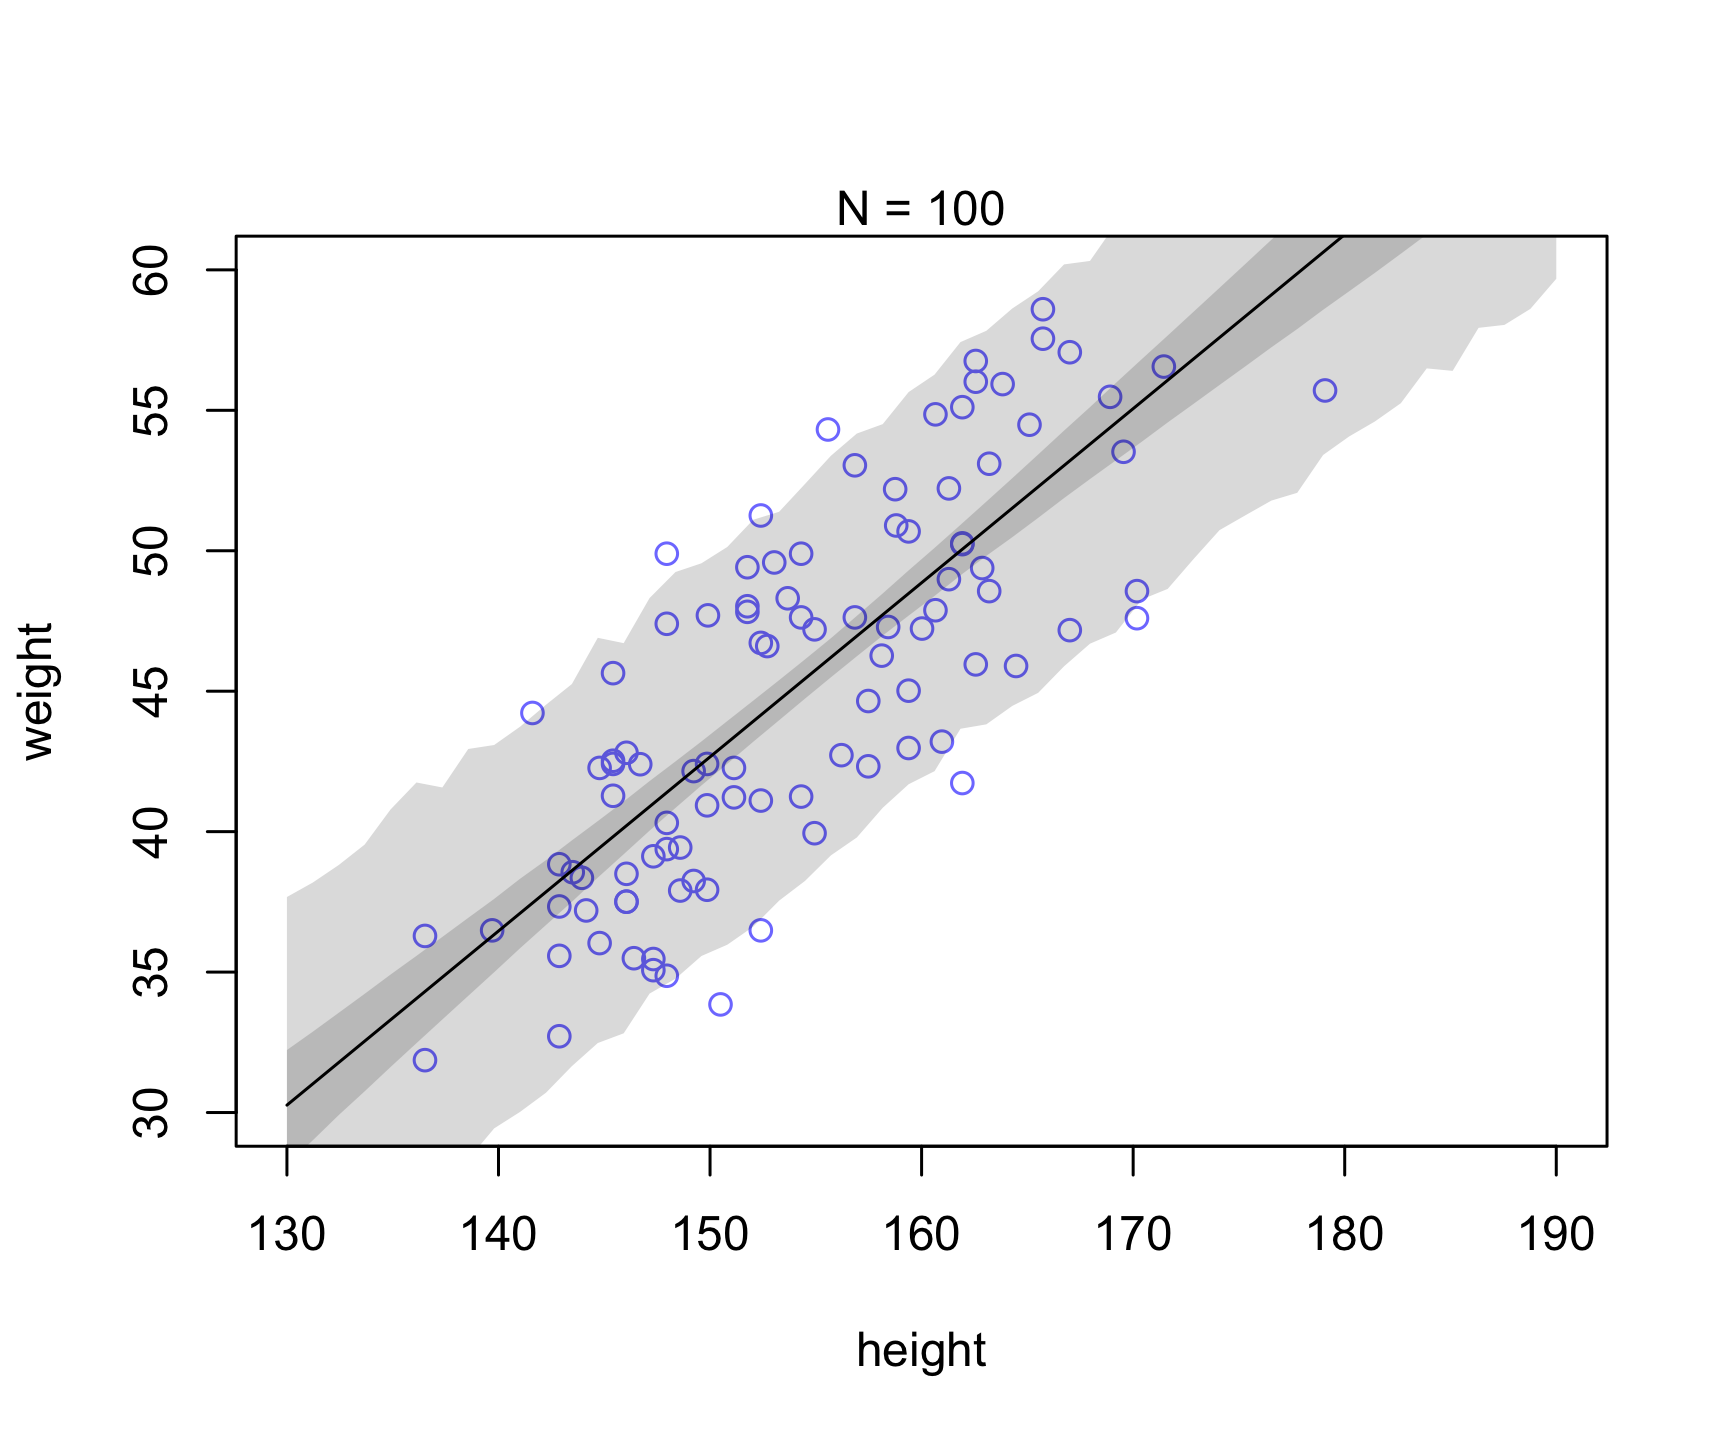
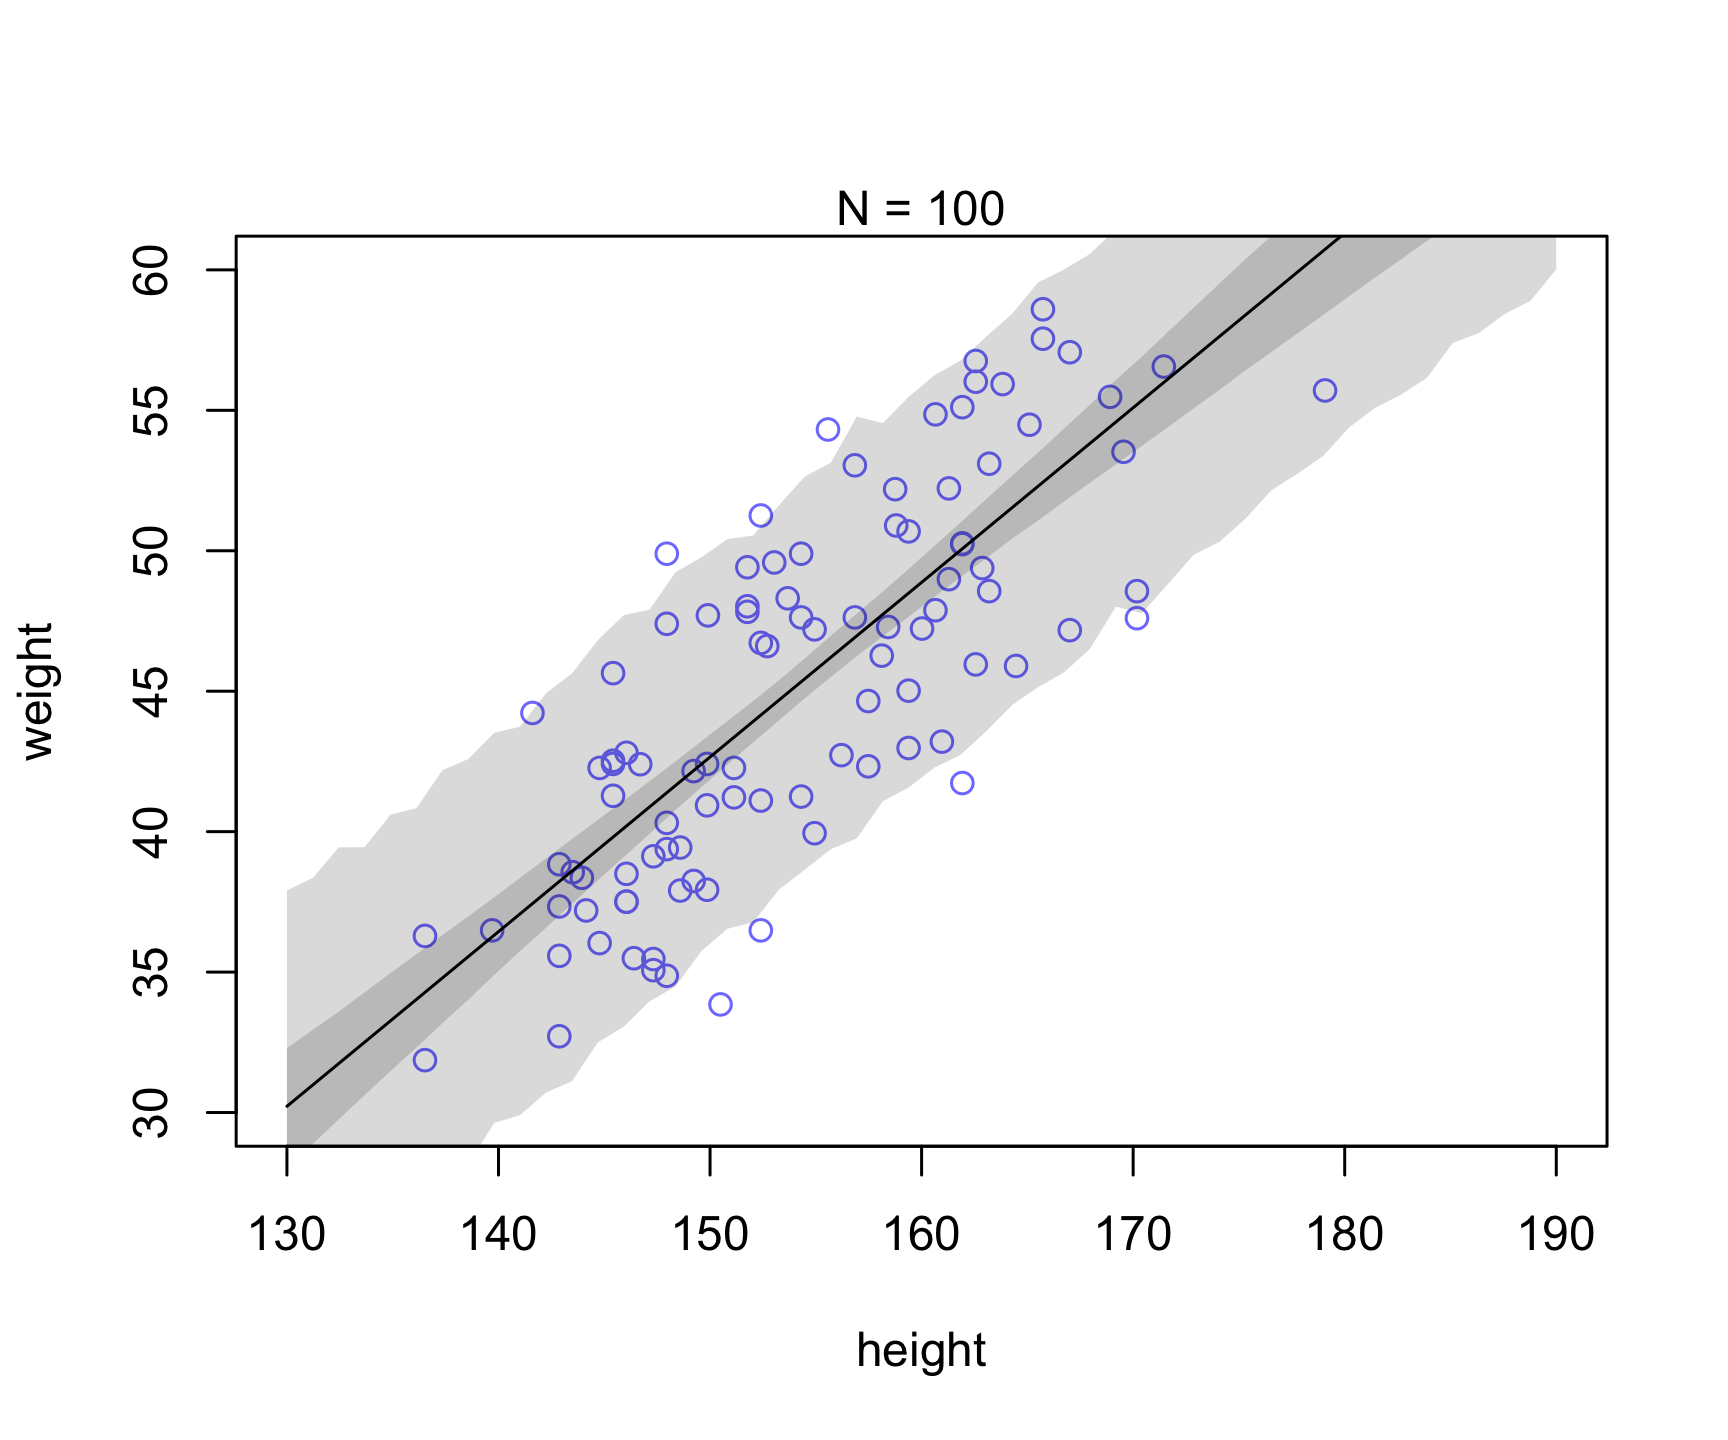
update uncertainty resource

diff --git a/content/resource/uncertainty.html b/content/resource/uncertainty.html
@@ -74,7 +74,7 @@ data(Howell1)
 d &lt;- Howell1
 d2 &lt;- d[ d$age &gt;= 18 , ]
 
-set.seed(100)
+set.seed(123)
 
 runSimulation &lt;- function(N){
   dN &lt;- d2[ 1:N , ]
